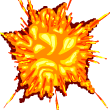
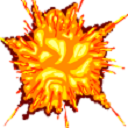
positions are not matching up with animation sprite during bomb explosion phase. Need to monitor more closely positions and boarder checking.

diff --git a/DancingPlutonium/Source/Projectiles/Bomb.cpp b/DancingPlutonium/Source/Projectiles/Bomb.cpp
@@ -24,7 +24,8 @@ void DancingPlutonium::Bomb::SetPosition(const sf::Vector2f& _pos)
 {
 	position = _pos;
 	sprite.setPosition(_pos);
-	animatedSprite.setPosition(sf::Vector2f(_pos.x - (imgwidth / 2) * scale, _pos.y - (imgwidth / 2) * scale));
+	animatedSprite.getSprite().setPosition(sf::Vector2f(position.x - (imgwidth / 2) * scale, position.y - (imgwidth / 2) * scale));
+	animatedSprite.setPosition(sf::Vector2f(position.x - (imgwidth / 2) * scale, position.y - (imgwidth / 2) * scale));
 }
 
 void DancingPlutonium::Bomb::SetSprite(const sf::Vector2f& _origin)
@@ -54,6 +55,7 @@ void DancingPlutonium::Bomb::Update(float _dt)
 	else if (isExploding)
 	{
 		animatedSprite.update(_dt);
+		SetPosition(sf::Vector2f(position.x, position.y));
 	}
 
 	if (accumulator > 4.f)
@@ -94,7 +96,7 @@ sf::Sprite DancingPlutonium::Bomb::GetSprite()
 
 sf::Sprite DancingPlutonium::Bomb::GetExplosionSprite()
 {
-	return explosionSprite;
+	return animatedSprite.getSprite();
 }
 
 void DancingPlutonium::Bomb::InitializeAnimationSpriteSheet()
@@ -122,7 +124,14 @@ void DancingPlutonium::Bomb::InitializeAnimationSpriteSheet()
 
 	currentAnimation = &bombAnimation;
 	animatedSprite = AnimatedSprite(0.2f, true, false);
-
+	sf::Texture shit;
+	sf::Image img;
+	sf::Sprite dumbass;
+	img.loadFromFile("Content/Images/BombBlast_Final.png");
+	shit.loadFromImage(img);
+	dumbass.setTexture(shit);
+	animatedSprite.setSprite(dumbass);
+	
 	auto thing = bombAnimation.getSpriteSheet();
 	explosionSprite.setTexture(*thing);
 }

diff --git a/DancingPlutonium/Source/Utility/AnimatedSprite.cpp b/DancingPlutonium/Source/Utility/AnimatedSprite.cpp
@@ -24,7 +24,7 @@
 #include "AnimatedSprite.h"
 
 DancingPlutonium::AnimatedSprite::AnimatedSprite(float frameTime, bool paused, bool looped) :
-	m_animation(NULL), m_frameTime(frameTime), m_currentFrame(0), m_isPaused(paused), m_isLooped(looped), m_texture(NULL)
+	m_animation(NULL), m_frameTime(frameTime), m_currentFrame(0), m_isPaused(paused), m_isLooped(looped), m_texture(NULL), m_sprite()
 {
 
 }
@@ -140,6 +140,18 @@ void DancingPlutonium::AnimatedSprite::setFrame(std::size_t newFrame, bool reset
 
 	if (resetTime)
 		m_currentTime = 0.f;
+}
+
+// I made these - mario
+void DancingPlutonium::AnimatedSprite::setSprite(sf::Sprite& sprite)
+{
+	m_sprite = sprite;
+}
+
+// I made these - mario
+sf::Sprite DancingPlutonium::AnimatedSprite::getSprite()
+{
+	return m_sprite;
 }
 
 void DancingPlutonium::AnimatedSprite::update(float deltaTime)

diff --git a/DancingPlutonium/Source/Units/PlutoniumShip.cpp b/DancingPlutonium/Source/Units/PlutoniumShip.cpp
@@ -6,7 +6,8 @@ sf::Uint32 DancingPlutonium::PlutoniumShip::m_movement = Movement::s_noMovement;
 DancingPlutonium::PlutoniumShip::PlutoniumShip(const sf::RenderTarget& _rt) : AbstractBaseUnit(), lives(3),
 	invulnerablePeriod(0.0f),
 	bombs(5),
-	score(0)
+	score(0),
+	bombCoolDown(2.f)
 {
 	health = 200.0f;
 	speed = 175.0f;	
@@ -79,6 +80,16 @@ bool DancingPlutonium::PlutoniumShip::CanUseBomb()
 
 	bombs > 0 ? retVal = true : retVal = false;
 
+	if (bombCoolDown > 2.0f && retVal)
+	{
+		retVal = true;
+		bombCoolDown = 0.0f;
+	}
+	else
+	{
+		retVal = false;
+	}
+
 	return retVal;
 }
 
@@ -148,6 +159,7 @@ void DancingPlutonium::PlutoniumShip::TakeDamage(const float _val)
 void DancingPlutonium::PlutoniumShip::Update(float _dt, sf::RenderTarget& _rt)
 {
 	accumulator += _dt;
+	bombCoolDown += _dt;
 
 	if (isActive)
 	{

diff --git a/DancingPlutonium/Source/Game States/LevelObserver.cpp b/DancingPlutonium/Source/Game States/LevelObserver.cpp
@@ -30,7 +30,7 @@ void DancingPlutonium::LevelObserver::CheckForBombCollision()
 				{
 					for (int j = static_cast<int>(EnemyShipContainer.size() - 1); j >= 0; j--)
 					{
-						if (Collision::BoundingBoxTest(BombContainer[i]->GetExplosionSprite(), EnemyShipContainer[j]->GetSprite()))
+						if (EnemyShipContainer[j]->GetSprite().getGlobalBounds().intersects(BombContainer[i]->GetExplosionSprite().getGlobalBounds()))
 						{
 							// GetHealth returns the players current life, which is then dealt to him
 							EnemyShipContainer[i]->TakeDamage(BombContainer[i]->GetDamagePerFrame());

diff --git a/DancingPlutonium/Header/Utility/AnimatedSprite.h b/DancingPlutonium/Header/Utility/AnimatedSprite.h
@@ -49,6 +49,8 @@ namespace DancingPlutonium
 		bool isPlaying() const;
 		float getFrameTime() const;
 		void setFrame(std::size_t newFrame, bool resetTime = true);
+		void setSprite(sf::Sprite& sprite);
+		sf::Sprite getSprite();
 
 	private:
 		const Animation* m_animation;
@@ -59,6 +61,7 @@ namespace DancingPlutonium
 		bool m_isLooped;
 		const sf::Texture* m_texture;
 		sf::Vertex m_vertices[4];
+		sf::Sprite m_sprite;
 
 		virtual void draw(sf::RenderTarget& target, sf::RenderStates states) const;
 	};

diff --git a/DancingPlutonium/Header/Units/PlutoniumShip.h b/DancingPlutonium/Header/Units/PlutoniumShip.h
@@ -85,6 +85,7 @@ namespace DancingPlutonium
 	private:
 		#pragma region Members
 
+		float bombCoolDown;									/* Represents how long the player has to wait before another bomb can be used. */
 		float invulnerablePeriod;							/* Represents how long the player is allowed invulnerability. */
 		short bombs;										/* Represents the bombs count for this PlutoniumShip object. */
 		short lives;										/* Represents the lives count for this PlutoniumShip object. */
